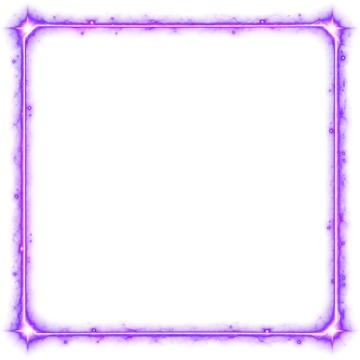
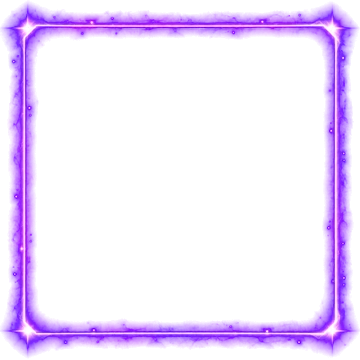
v4.99 發光框再調亮（加一層模糊光暈）
Claude-Session: https://claude.ai/code/session_017xtJtx7J9FBKoAuzpKRkDV

Changed region(s): [[0.0, 0.0, 1.0, 1.0]]

diff --git a/index.html b/index.html
@@ -2106,7 +2106,8 @@ body.dpv .hero .dp-firelit{position:absolute;inset:0;z-index:1;pointer-events:no
 /* v4.99 +9 以上發光框（Mochi AI 生圖 glow_l3/l6/l4/l5，黑底轉成透明度疊上），慢慢亮暗 */
 .b2-slot .cg{position:absolute;inset:-1%;z-index:1;pointer-events:none;animation:cgp 2.4s ease-in-out infinite alternate;will-change:opacity}
 .b2-slot .cg img{position:absolute;inset:0;width:100%;height:100%;max-width:none}
-@keyframes cgp{from{opacity:.55}to{opacity:1}}
+.b2-slot .cg img.h{filter:blur(3px) brightness(1.4)}   /* 第二層模糊光暈，讓光更亮更柔（Mochi：再亮一點） */
+@keyframes cgp{from{opacity:.7}to{opacity:1}}
 .b2-slot .w,.b2-slot .ic,.b2-slot .lv,.b2-slot .x,.b2-slot .lk,.b2-slot .nw,.b2-slot .post,.b2-slot .curse,.b2-slot .glow{z-index:2}
 @media (prefers-reduced-motion:reduce){.b2-slot .cg{animation:none;opacity:.8}}
 .b2-slot.brk .w{filter:grayscale(.6) brightness(.7) sepia(.3) hue-rotate(-20deg)}
@@ -4297,7 +4298,7 @@ const b2Head=()=>{const n=S.weapons.length,full=n>=CAP_WEAPONS;
 // 武器圖照 wArt 的安全距離（WFIT），只是不疊等級框，改用格子的品階框
 const b2W=id=>{const k=(WFIT[ART_WAIT[id]||id]||.65)*100,o=(100-k)/2;return `<img class="w" src="${A(id+'_disp')}" alt="" style="left:${o}%;top:${o}%;width:${k}%;height:${k}%">`};
 function b2Slot(w,act,dot,n=1,nw=wNew(w)){const b=bpOf(w),i=where(w),bs=bossSlotOf(w),brk=isBroken(w),on=ui.sheet&&ui.sheet.t==='w'&&ui.sheet.id===w.id;
-  return `<button class="b2-slot ${on?'sel':''} ${brk?'brk':''} ${i>=0||bs>=0?'posted':''}" style="--rim:url(art/ui/bag2/bag2_rim_${brk?'curse':'l'+FLV(w.lv)}.webp)" ${act} aria-label="${b.n} +${w.lv}"><span class="rim"></span>${!brk&&FLV(w.lv)>=3?(d=>`<span class="cg" style="animation-delay:${d}ms"><img src="art/ui/bag2/bag2_glow_l${FLV(w.lv)}.webp" alt=""></span>`)(-Math.round(performance.now()%4800)):''}${b2W(b.id)}
+  return `<button class="b2-slot ${on?'sel':''} ${brk?'brk':''} ${i>=0||bs>=0?'posted':''}" style="--rim:url(art/ui/bag2/bag2_rim_${brk?'curse':'l'+FLV(w.lv)}.webp)" ${act} aria-label="${b.n} +${w.lv}"><span class="rim"></span>${!brk&&FLV(w.lv)>=3?(d=>`<span class="cg" style="animation-delay:${d}ms"><img src="art/ui/bag2/bag2_glow_l${FLV(w.lv)}.webp" alt=""><img class="h" src="art/ui/bag2/bag2_glow_l${FLV(w.lv)}.webp" alt=""></span>`)(-Math.round(performance.now()%4800)):''}${b2W(b.id)}
    ${i>=0?`<span class="post">駐 ${vNo(i)}</span>`:bs>=0?'<span class="post">首領</span>':brk?'<span class="curse">咒</span>':''}${w.lock?b2Img('ic_lock','lk','已鎖定'):nw?'<i class="nw"></i>':''}
    ${w.lv?`<span class="lv">+${w.lv}</span>`:n>1?`<span class="x">${fmt(n)}</span>`:''}</button>`}
 const b2Fill=(n,cols=5)=>'<span class="b2-slot empty"></span>'.repeat((cols-n%cols)%cols+cols);

diff --git a/src/game.js b/src/game.js
@@ -2009,7 +2009,7 @@ const b2Head=()=>{const n=S.weapons.length,full=n>=CAP_WEAPONS;
 // 武器圖照 wArt 的安全距離（WFIT），只是不疊等級框，改用格子的品階框
 const b2W=id=>{const k=(WFIT[ART_WAIT[id]||id]||.65)*100,o=(100-k)/2;return `<img class="w" src="${A(id+'_disp')}" alt="" style="left:${o}%;top:${o}%;width:${k}%;height:${k}%">`};
 function b2Slot(w,act,dot,n=1,nw=wNew(w)){const b=bpOf(w),i=where(w),bs=bossSlotOf(w),brk=isBroken(w),on=ui.sheet&&ui.sheet.t==='w'&&ui.sheet.id===w.id;
-  return `<button class="b2-slot ${on?'sel':''} ${brk?'brk':''} ${i>=0||bs>=0?'posted':''}" style="--rim:url(art/ui/bag2/bag2_rim_${brk?'curse':'l'+FLV(w.lv)}.webp)" ${act} aria-label="${b.n} +${w.lv}"><span class="rim"></span>${!brk&&FLV(w.lv)>=3?(d=>`<span class="cg" style="animation-delay:${d}ms"><img src="art/ui/bag2/bag2_glow_l${FLV(w.lv)}.webp" alt=""></span>`)(-Math.round(performance.now()%4800)):''}${b2W(b.id)}
+  return `<button class="b2-slot ${on?'sel':''} ${brk?'brk':''} ${i>=0||bs>=0?'posted':''}" style="--rim:url(art/ui/bag2/bag2_rim_${brk?'curse':'l'+FLV(w.lv)}.webp)" ${act} aria-label="${b.n} +${w.lv}"><span class="rim"></span>${!brk&&FLV(w.lv)>=3?(d=>`<span class="cg" style="animation-delay:${d}ms"><img src="art/ui/bag2/bag2_glow_l${FLV(w.lv)}.webp" alt=""><img class="h" src="art/ui/bag2/bag2_glow_l${FLV(w.lv)}.webp" alt=""></span>`)(-Math.round(performance.now()%4800)):''}${b2W(b.id)}
    ${i>=0?`<span class="post">駐 ${vNo(i)}</span>`:bs>=0?'<span class="post">首領</span>':brk?'<span class="curse">咒</span>':''}${w.lock?b2Img('ic_lock','lk','已鎖定'):nw?'<i class="nw"></i>':''}
    ${w.lv?`<span class="lv">+${w.lv}</span>`:n>1?`<span class="x">${fmt(n)}</span>`:''}</button>`}
 const b2Fill=(n,cols=5)=>'<span class="b2-slot empty"></span>'.repeat((cols-n%cols)%cols+cols);

diff --git a/src/style.css b/src/style.css
@@ -2090,7 +2090,8 @@ body.dpv .hero .dp-firelit{position:absolute;inset:0;z-index:1;pointer-events:no
 /* v4.99 +9 以上發光框（Mochi AI 生圖 glow_l3/l6/l4/l5，黑底轉成透明度疊上），慢慢亮暗 */
 .b2-slot .cg{position:absolute;inset:-1%;z-index:1;pointer-events:none;animation:cgp 2.4s ease-in-out infinite alternate;will-change:opacity}
 .b2-slot .cg img{position:absolute;inset:0;width:100%;height:100%;max-width:none}
-@keyframes cgp{from{opacity:.55}to{opacity:1}}
+.b2-slot .cg img.h{filter:blur(3px) brightness(1.4)}   /* 第二層模糊光暈，讓光更亮更柔（Mochi：再亮一點） */
+@keyframes cgp{from{opacity:.7}to{opacity:1}}
 .b2-slot .w,.b2-slot .ic,.b2-slot .lv,.b2-slot .x,.b2-slot .lk,.b2-slot .nw,.b2-slot .post,.b2-slot .curse,.b2-slot .glow{z-index:2}
 @media (prefers-reduced-motion:reduce){.b2-slot .cg{animation:none;opacity:.8}}
 .b2-slot.brk .w{filter:grayscale(.6) brightness(.7) sepia(.3) hue-rotate(-20deg)}
